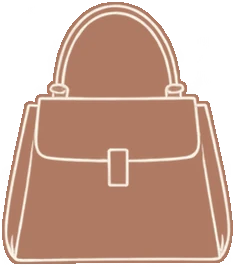
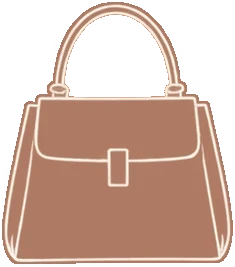
Journal : pastilles retirées ; Mon profil : « Membre depuis » ; chargement : anse du sac, dessins homme (#238)
* Journal : pastilles de période retirées des chiffres clés (redondantes avec le menu de l'en-tête)

Claude-Session: https://claude.ai/code/session_012QL3YtmR4vGBEaKjEs57SS

* Mon profil : « Membre depuis » (mois et année d'inscription) sous l'e-mail

Claude-Session: https://claude.ai/code/session_012QL3YtmR4vGBEaKjEs57SS

* Chargement : l'intérieur de l'anse du sac est transparent (il était rempli de la couleur du sac)

Claude-Session: https://claude.ai/code/session_012QL3YtmR4vGBEaKjEs57SS

* Chargement : dessins homme (besace, pardessus, blazer droit, short chino) et sac à dos selon le sac

Claude-Session: https://claude.ai/code/session_012QL3YtmR4vGBEaKjEs57SS

* Chargement : dessins homme remplacés par ceux de la planche ChatGPT, découpés (fond et halo retirés, couleurs de la planche existante)

Claude-Session: https://claude.ai/code/session_012QL3YtmR4vGBEaKjEs57SS

* Chargement homme : t-shirt, pantalon et tennis du même jeu, découpes en pleine résolution, tennis vues de dessus à 55 %

Claude-Session: https://claude.ai/code/session_012QL3YtmR4vGBEaKjEs57SS

---------

Changed region(s): [[0.2681, 0.03, 0.7149, 0.3895]]

diff --git a/src/lib/silhouetteFlatLay.ts b/src/lib/silhouetteFlatLay.ts
@@ -1,5 +1,5 @@
 import { composerFlatLay, type PlacementFlatLay } from "./flatLay";
-import type { CategoryKey } from "./types";
+import type { CategoryKey, SacType } from "./types";
 
 /*
  * LA SILHOUETTE DE CHARGEMENT, SUR LE MOTEUR DU FLAT LAY (08/10/2026, signalé : « il faut revoir les dimensions des pièces au
@@ -25,6 +25,44 @@ export const DESSINS_SILHOUETTE: Partial<Record<CategoryKey, { src: string; rati
   sac: { src: "/loader/sac.webp", ratio: 0.88 },
 };
 
+/**
+ * LES DESSINS HOMME (15/10/2026, signalé : « les silhouettes des pièces pour homme sont-elles adaptées ? »). Le sac à main, le trench
+ * ceinturé, le blazer cintré et le short taille haute sont de coupe féminine ; un profil homme reçoit une besace, un pardessus droit,
+ * un blazer droit et un short chino (dessins générés par ChatGPT sur une planche, découpés un à un : fond et halo retirés, couleurs
+ * ramenées à l'aplat et au trait crème des dessins existants).
+ * Le même jour, le haut, le pantalon et les chaussures (tennis) du même jeu, pour que la silhouette homme soit homogène (demandé :
+ * « seulement pour les hommes ») ; un profil femme garde tous les dessins d'origine. Formats mesurés sur les fichiers.
+ */
+const DESSINS_HOMME: Partial<Record<CategoryKey, { src: string; ratio: number; echelle?: number }>> = {
+  haut: { src: "/loader/haut-homme.webp", ratio: 1.06 },
+  pull: { src: "/loader/haut-homme.webp", ratio: 1.06 },
+  pantalon: { src: "/loader/pantalon-homme.webp", ratio: 0.53 },
+  jean: { src: "/loader/pantalon-homme.webp", ratio: 0.53 },
+  // Une paire de tennis VUE DE DESSUS (format vertical), là où le mocassin est vu de profil : à l'échelle du moteur, elle prenait la
+  // taille d'un sac et mordait sur le pantalon. Ramenée à 55 %, elle garde la place des chaussures sous le bas.
+  chaussures: { src: "/loader/chaussures-homme.webp", ratio: 0.8, echelle: 0.55 },
+  sac: { src: "/loader/sac-homme.webp", ratio: 1.07 },
+  veste: { src: "/loader/veste-homme.webp", ratio: 0.97 },
+  manteau: { src: "/loader/manteau-homme.webp", ratio: 0.75 },
+  short: { src: "/loader/short-homme.webp", ratio: 1.2 },
+};
+
+/** Un sac à dos est dessiné comme tel, quel que soit le profil : ni sac à main ni besace. */
+const DESSIN_SAC_A_DOS = { src: "/loader/sac-a-dos.webp", ratio: 0.86 };
+
+export interface OptionsDessin {
+  /** Profil homme : les dessins de DESSINS_HOMME remplacent les dessins communs. */
+  homme?: boolean;
+  /** Le type du sac posé, quand la pièce est connue. */
+  sacType?: SacType;
+}
+
+/** Le dessin d'une catégorie pour ce profil (et ce sac), ou undefined si la catégorie n'en a pas. */
+export function dessinSilhouette(cat: CategoryKey, options: OptionsDessin = {}): { src: string; ratio: number; echelle?: number } | undefined {
+  if (cat === "sac" && options.sacType === "Sac à dos") return DESSIN_SAC_A_DOS;
+  return (options.homme ? DESSINS_HOMME[cat] : undefined) ?? DESSINS_SILHOUETTE[cat];
+}
+
 /** L'échelle du dessin du haut (cf. composerSilhouette). */
 const ECHELLE_HAUT = 0.78;
 
@@ -33,6 +71,7 @@ const RATIO_PHOTO = 0.8;
 
 export interface FormeSilhouette {
   cat: CategoryKey;
+  dessin: { src: string; ratio: number; echelle?: number };
   /** Le haut photographié : un cadre de photo au format 4:5 au lieu du dessin. */
   photo: boolean;
 }
@@ -43,16 +82,23 @@ export interface PlacementSilhouette extends PlacementFlatLay {
 }
 
 /** Les emplacements des dessins pour ces catégories : ceux du flat lay de l'accueil. Bijoux et accessoires n'ont pas de dessin. */
-export function composerSilhouette(formes: { cat: CategoryKey; photoUrl?: string | null }[]): PlacementSilhouette[] {
-  const utiles: FormeSilhouette[] = formes.filter((f) => f.cat !== "bijou" && f.cat !== "accessoire" && DESSINS_SILHOUETTE[f.cat]).map((f) => ({ cat: f.cat, photo: Boolean(f.photoUrl) }));
+export function composerSilhouette(
+  formes: { cat: CategoryKey; photoUrl?: string | null; sacType?: SacType }[],
+  options: { homme?: boolean } = {}
+): PlacementSilhouette[] {
+  const utiles: FormeSilhouette[] = formes.flatMap((f) => {
+    if (f.cat === "bijou" || f.cat === "accessoire") return [];
+    const dessin = dessinSilhouette(f.cat, { homme: options.homme, sacType: f.sacType });
+    return dessin ? [{ cat: f.cat, dessin, photo: Boolean(f.photoUrl) }] : [];
+  });
   if (!utiles.length) return [];
   const { pieces } = composerFlatLay(
     // Le dessin du haut est un carré plein (format 1:1), celui du pantalon un trait étroit (0,36) : à échelle égale, le haut prenait
     // plus de place que le bas. Le haut est ramené à 78 % — sa surface reste sous celle du pantalon, comme dans le look final.
-    utiles.map((f, id) => ({ id, cat: f.cat, ratio: f.photo ? RATIO_PHOTO : DESSINS_SILHOUETTE[f.cat]!.ratio, visualScale: f.cat === "haut" || f.cat === "pull" ? ECHELLE_HAUT : 1 })),
+    utiles.map((f, id) => ({ id, cat: f.cat, ratio: f.photo ? RATIO_PHOTO : f.dessin.ratio, visualScale: f.dessin.echelle ?? (f.cat === "haut" || f.cat === "pull" ? ECHELLE_HAUT : 1) })),
     // Une graine fixe par ensemble de catégories : la silhouette ne bouge pas d'un rendu à l'autre.
     `silhouette:${utiles.map((f) => f.cat).join(",")}`,
     { contexte: "hero-home", sansMiroir: true }
   );
-  return pieces.map((p) => ({ ...p, photo: utiles[p.id].photo, src: DESSINS_SILHOUETTE[utiles[p.id].cat]!.src }));
+  return pieces.map((p) => ({ ...p, photo: utiles[p.id].photo, src: utiles[p.id].dessin.src }));
 }

diff --git a/src/lib/__tests__/silhouetteFlatLay.test.ts b/src/lib/__tests__/silhouetteFlatLay.test.ts
@@ -1,6 +1,6 @@
 import { describe, expect, it } from "vitest";
 import { CONTEXTES } from "../flatLay";
-import { DESSINS_SILHOUETTE, composerSilhouette } from "../silhouetteFlatLay";
+import { DESSINS_SILHOUETTE, composerSilhouette, dessinSilhouette } from "../silhouetteFlatLay";
 import type { CategoryKey } from "../types";
 
 // La silhouette de chargement pose ses dessins avec le moteur du flat lay : signalé le 08/10/2026 (« haut trop grand vs bas »).
@@ -52,5 +52,35 @@ describe("silhouette de chargement — mêmes tailles relatives que le look fina
 
   it("déterministe : le même ensemble de catégories donne la même silhouette", () => {
     expect(composerSilhouette(BASE.map((cat) => ({ cat })))).toEqual(composerSilhouette(BASE.map((cat) => ({ cat }))));
+  });
+});
+
+describe("dessins selon le profil (15/10/2026)", () => {
+  it("un profil homme reçoit tout le jeu homme : t-shirt, pantalon, tennis, besace, pardessus, blazer droit, short chino", () => {
+    expect(dessinSilhouette("sac", { homme: true })?.src).toBe("/loader/sac-homme.webp");
+    expect(dessinSilhouette("manteau", { homme: true })?.src).toBe("/loader/manteau-homme.webp");
+    expect(dessinSilhouette("veste", { homme: true })?.src).toBe("/loader/veste-homme.webp");
+    expect(dessinSilhouette("short", { homme: true })?.src).toBe("/loader/short-homme.webp");
+    expect(dessinSilhouette("haut", { homme: true })?.src).toBe("/loader/haut-homme.webp");
+    expect(dessinSilhouette("pull", { homme: true })?.src).toBe("/loader/haut-homme.webp");
+    expect(dessinSilhouette("pantalon", { homme: true })?.src).toBe("/loader/pantalon-homme.webp");
+    expect(dessinSilhouette("jean", { homme: true })?.src).toBe("/loader/pantalon-homme.webp");
+    expect(dessinSilhouette("chaussures", { homme: true })?.src).toBe("/loader/chaussures-homme.webp");
+  });
+
+  it("sans profil homme, les dessins communs ne changent pas", () => {
+    for (const cat of ["haut", "pull", "pantalon", "jean", "chaussures", "sac", "manteau", "veste", "short"] as const) expect(dessinSilhouette(cat)).toBe(DESSINS_SILHOUETTE[cat]);
+  });
+
+  it("un sac à dos est dessiné comme tel, quel que soit le profil", () => {
+    expect(dessinSilhouette("sac", { sacType: "Sac à dos" })?.src).toBe("/loader/sac-a-dos.webp");
+    expect(dessinSilhouette("sac", { homme: true, sacType: "Sac à dos" })?.src).toBe("/loader/sac-a-dos.webp");
+  });
+
+  it("la composition pose les dessins homme avec leur propre format", () => {
+    const pieces = composerSilhouette([{ cat: "haut" }, { cat: "pantalon" }, { cat: "chaussures" }, { cat: "sac" }], { homme: true });
+    const sac = pieces.find((p) => p.cat === "sac")!;
+    expect(sac.src).toBe("/loader/sac-homme.webp");
+    expect(sac.l / sac.h).toBeCloseTo(dessinSilhouette("sac", { homme: true })!.ratio, 1);
   });
 });

diff --git a/src/lib/auth.tsx b/src/lib/auth.tsx
@@ -16,6 +16,8 @@ export { markSignupIntent } from "./signupIntent";
 interface DemoAuth {
   email: string;
   profile: Profile;
+  /** Création du compte démo sur l'appareil (ISO, 15/10/2026) — absente des comptes démo plus anciens. */
+  creeLe?: string;
 }
 
 export interface AuthContextValue {
@@ -41,6 +43,8 @@ export interface AuthContextValue {
   /** Mode démo : pas de credentials Supabase configurés. */
   demoMode: boolean;
   email: string | null;
+  /** Date d'inscription (ISO) : `created_at` du compte, ou création du compte démo. null si elle n'est pas connue. */
+  inscritLe: string | null;
   /** Id Supabase Auth réel — null en mode démo (pas d'utilisateur Supabase) ou tant qu'aucune session n'est chargée. */
   userId: string | null;
   profile: Profile;
@@ -249,7 +253,7 @@ export function AuthProvider({ children }: { children: React.ReactNode }) {
     setError(null);
     const fresh = { ...EMPTY_PROFILE, displayName: name, birthdate: birthdate || null };
     if (!isSupabaseConfigured) {
-      persistDemo({ email, profile: fresh });
+      persistDemo({ email, profile: fresh, creeLe: new Date().toISOString() });
       setProfile(fresh);
       return "ok";
     }
@@ -270,7 +274,7 @@ export function AuthProvider({ children }: { children: React.ReactNode }) {
     setError(null);
     if (!isSupabaseConfigured) {
       const stored = readStoredDemo();
-      const restored: DemoAuth = stored && stored.email === email ? stored : { email, profile: EMPTY_PROFILE };
+      const restored: DemoAuth = stored && stored.email === email ? stored : { email, profile: EMPTY_PROFILE, creeLe: new Date().toISOString() };
       persistDemo(restored);
       setProfile(restored.profile);
       return true;
@@ -288,7 +292,7 @@ export function AuthProvider({ children }: { children: React.ReactNode }) {
     if (!isSupabaseConfigured) {
       const email = "demo@capsela.app";
       const stored = readStoredDemo();
-      const restored: DemoAuth = stored && stored.email === email ? stored : { email, profile: EMPTY_PROFILE };
+      const restored: DemoAuth = stored && stored.email === email ? stored : { email, profile: EMPTY_PROFILE, creeLe: new Date().toISOString() };
       persistDemo(restored);
       setProfile(restored.profile);
       setJustSignedUp(consumeSignupIntent());
@@ -421,6 +425,7 @@ export function AuthProvider({ children }: { children: React.ReactNode }) {
     profileLoaded: !isSupabaseConfigured || profilChargeReel,
     demoMode: !isSupabaseConfigured,
     email: user?.email ?? demoUser?.email ?? null,
+    inscritLe: user?.created_at ?? demoUser?.creeLe ?? null,
     userId: user?.id ?? null,
     profile,
     error,

diff --git a/src/components/FlatLayCapsela.tsx b/src/components/FlatLayCapsela.tsx
@@ -1,7 +1,8 @@
 "use client";
 
 import { useCallback, useEffect, useLayoutEffect, useMemo, useRef, useState } from "react";
-import { DESSINS_SILHOUETTE } from "@/lib/silhouetteFlatLay";
+import { dessinSilhouette } from "@/lib/silhouetteFlatLay";
+import { useAuth } from "@/lib/auth";
 import { margesDe, objectBounds, ratioHero } from "@/lib/catalogMarges";
 import { resolveHeroImage } from "@/lib/catalogImages";
 import { composerFlatLay, hauteurDuContexte, type ContexteFlatLay } from "@/lib/flatLay";
@@ -103,6 +104,7 @@ export function FlatLayCapsela({
     ro.observe(el);
     return () => ro.disconnect();
   }, []);
+  const homme = useAuth().profile.gender === "homme";
   const HAUTEUR = formatCadre ?? hauteurDuContexte(context);
   const graine = layoutSeed;
   const images = useMemo(() => {
@@ -119,7 +121,8 @@ export function FlatLayCapsela({
     const avecImage = toutes.filter(({ img }) => img.url);
     const base = avecImage.length ? avecImage : toutes;
     const ombres = fantomes.flatMap((cat, i) => {
-      const dessin = DESSINS_SILHOUETTE[cat];
+      // Une pièce manquante posée en silhouette prend le dessin du profil (15/10/2026) : la veste d'un homme est un blazer droit.
+      const dessin = dessinSilhouette(cat, { homme });
       if (!dessin) return [];
       const it = { id: -(i + 1), cat, name: "Pièce à ajouter", hex: "#d9cbb6" } as unknown as Item;
       return [{ it, img: { kind: "generated" as const, url: dessin.src }, fantome: dessin.ratio }];
@@ -130,7 +133,7 @@ export function FlatLayCapsela({
       // Comme les pièces de la tenue : sans visuel, la pièce n'est posée que si AUCUNE pièce n'en a (pastilles du mode démo).
       .filter(({ img }) => img.url || avecImage.length === 0);
     return [...base.map((e) => ({ ...e, fantome: undefined as number | undefined, ajout: undefined as (() => void) | undefined })), ...ombres.map((o) => ({ ...o, ajout: undefined as (() => void) | undefined })), ...conseils];
-  }, [items, context, fantomes, ajouts]);
+  }, [items, context, fantomes, ajouts, homme]);
   const template = useMemo(
     // Pas de template sur l'accueil (14/10/2026) : jamais validé en rendu réel dans ce contexte (seul look-detail l'a été), et une tenue y a
     // paru sans ses chaussures. Le moteur d'origine y compose seul ; le moteur de templates sait le faire (flatLay.ts), il faut juste le valider.

diff --git a/src/components/screens/HistoryScreen.tsx b/src/components/screens/HistoryScreen.tsx
@@ -844,9 +844,9 @@ export default function HistoryScreen() {
       <AppHeader />
 
       {/* EN-TÊTE */}
-      {/* EN-TÊTE (15/10/2026, maquette du Journal) : le titre à gauche, la période en menu à droite (« Octobre 2026 »). Le menu et les
-          pastilles de « Tes chiffres clés » pilotent la MÊME période : ils ne peuvent pas se contredire. Un <select> natif : la liste
-          s'ouvre à la manière du système, au clavier et au lecteur d'écran aussi. */}
+      {/* EN-TÊTE (15/10/2026, maquette du Journal) : le titre à gauche, la période en menu à droite (« Octobre 2026 »). Ce menu est le
+          SEUL sélecteur de période du titre, du bilan et des chiffres clés. Un <select> natif : la liste s'ouvre à la manière du
+          système, au clavier et au lecteur d'écran aussi. */}
       <Surtitre className="mt-[18px]">Ton journal</Surtitre>
       <div className="flex items-start justify-between gap-3 mt-[6px]">
         <div className="t-titre-ecran text-ink min-w-0" aria-live="polite">
@@ -1007,21 +1007,7 @@ export default function HistoryScreen() {
         <Surtitre>
           <span id="journal-chiffres">Tes chiffres clés</span>
         </Surtitre>
-        {/* Les trois périodes en pastilles de même largeur (15/10/2026, maquette) : la même période que le menu de l'en-tête. */}
-        <div role="group" aria-label="Période des chiffres clés" className="grid grid-cols-3 gap-2 mt-3">
-          {PERIODES.map(({ key, label }) => (
-            <button
-              key={key}
-              aria-pressed={periode === key}
-              onClick={() => setPeriode(key)}
-              className={`min-h-[40px] px-2 rounded-full text-[12px] leading-[1.2] cursor-pointer border ${
-                periode === key ? "bg-ink text-cream border-ink" : "bg-card text-ink border-border"
-              }`}
-            >
-              {label}
-            </button>
-          ))}
-        </div>
+        {/* Plus de pastilles de période ici (15/10/2026, demandé : redondant avec le menu de l'en-tête, qui pilote seul la période). */}
         <Card className="mt-3 px-3 pt-4 pb-3" aria-live="polite">
           <div className="flex items-stretch">
             {chiffres.totalDressing > 0 && (

diff --git a/src/components/ZoneLookDuJour.tsx b/src/components/ZoneLookDuJour.tsx
@@ -4,6 +4,7 @@ import { useCallback, useEffect, useState } from "react";
 import { FlatLayCapsela } from "@/components/FlatLayCapsela";
 import { hauteurDuContexte } from "@/lib/flatLay";
 import { composerSilhouette } from "@/lib/silhouetteFlatLay";
+import { useAuth } from "@/lib/auth";
 import type { CategoryKey, Item } from "@/lib/types";
 
 /** Au-delà, la planche apparaît même si une image tarde : la silhouette ne doit pas masquer un look prêt. */
@@ -104,9 +105,11 @@ export function StatutComposition() {
  * relatives et aux places du look final. Même cadre que FlatLayCapsela (zone de 100 × 112 unités, centrée) : le fondu de l'un à l'autre
  * ne déplace rien.
  */
-function SilhouetteFlatLay({ formes }: { formes: { cat: CategoryKey; photoUrl?: string | null }[] }) {
+function SilhouetteFlatLay({ formes }: { formes: { cat: CategoryKey; photoUrl?: string | null; sacType?: Item["sacType"] }[] }) {
   const hauteur = hauteurDuContexte("hero-home");
-  const pieces = composerSilhouette(formes);
+  // Les dessins homme pour un profil homme (15/10/2026) : pas de sac à main ni de trench ceinturé au chargement.
+  const { profile } = useAuth();
+  const pieces = composerSilhouette(formes, { homme: profile.gender === "homme" });
   if (!pieces.length) return null;
   return (
     <div aria-hidden="true" className="absolute inset-0 w-full h-full flex items-center justify-center" style={{ containerType: "size", isolation: "isolate" }}>

diff --git a/src/components/screens/ProfileScreen.tsx b/src/components/screens/ProfileScreen.tsx
@@ -21,6 +21,7 @@ import {
   RevalidationSheet,
   Surtitre,
 } from "@/components/ProfilUI";
+import { libelleMembreDepuis } from "@/lib/membreDepuis";
 import { useAuth } from "@/lib/auth";
 import { morphologieOrienteLaSelection } from "@/lib/capsule";
 import {
@@ -66,7 +67,8 @@ import Card from "@/components/Card";
  */
 
 export default function ProfileScreen() {
-  const { profile, email, demoMode, saveProfile, profileLoaded } = useAuth();
+  const { profile, email, inscritLe, demoMode, saveProfile, profileLoaded } = useAuth();
+  const membreDepuis = libelleMembreDepuis(inscritLe);
   const { state, actions, etatPremium } = useCapsela();
   const [genreOuvert, setGenreOuvert] = useState(false);
   const [aRevalider, setARevalider] = useState<GenderDependentField | null>(null);
@@ -128,6 +130,8 @@ export default function ProfileScreen() {
             {profile.displayName || "Ton nom"}
           </div>
           <div className="text-[12px] text-muted-3 mt-[2px] [overflow-wrap:anywhere]">{email ?? "E-mail non renseigné"}</div>
+          {/* Ligne secondaire sous l'e-mail (15/10/2026, demandé). Sans date d'inscription connue, rien. */}
+          {membreDepuis && <div className="text-[12px] text-muted mt-[1px]">{membreDepuis}</div>}
           {demoMode && <div className="text-[12px] text-muted mt-[1px]">Mode démo — les données restent sur cet appareil</div>}
           <button
             onClick={actions.goAccount}

diff --git a/src/lib/__tests__/membreDepuis.test.ts b/src/lib/__tests__/membreDepuis.test.ts
@@ -1,0 +1,16 @@
+import { describe, expect, it } from "vitest";
+import { libelleMembreDepuis } from "../membreDepuis";
+
+describe("libelleMembreDepuis", () => {
+  it("dit le mois et l'année d'inscription", () => {
+    expect(libelleMembreDepuis("2026-10-15T12:00:00Z")).toBe("Membre depuis octobre 2026");
+    expect(libelleMembreDepuis("2025-08-10T12:00:00.000000+00:00")).toBe("Membre depuis août 2025");
+  });
+
+  it("ne dit rien sans date lisible", () => {
+    expect(libelleMembreDepuis(null)).toBeNull();
+    expect(libelleMembreDepuis(undefined)).toBeNull();
+    expect(libelleMembreDepuis("")).toBeNull();
+    expect(libelleMembreDepuis("pas une date")).toBeNull();
+  });
+});

diff --git a/src/lib/membreDepuis.ts b/src/lib/membreDepuis.ts
@@ -1,0 +1,13 @@
+import { MONTHS_FR } from "./data";
+
+/**
+ * « Membre depuis octobre 2026 » (15/10/2026, demandé : sous l'e-mail de Mon profil). La date est celle de l'inscription :
+ * `created_at` du compte Supabase, ou la création du compte démo sur l'appareil. Sans date lisible, null : la ligne ne
+ * s'affiche pas plutôt que d'afficher une date inventée. Mois et année lus dans le fuseau de l'appareil.
+ */
+export function libelleMembreDepuis(iso: string | null | undefined): string | null {
+  if (!iso) return null;
+  const d = new Date(iso);
+  if (Number.isNaN(d.getTime())) return null;
+  return `Membre depuis ${MONTHS_FR[d.getMonth()]} ${d.getFullYear()}`;
+}

diff --git a/docs/journal.md b/docs/journal.md
@@ -42,8 +42,8 @@ Rappel : les bornes de période suivent le fuseau de l'appareil (`new Date(an, m
 
 ## 15/10/2026 — rapprochement de la maquette
 
-- **En-tête** : la période passe dans un menu à droite du titre (« Octobre 2026 », « 3 derniers mois », « Depuis le début »). Les pastilles
-  de « Tes chiffres clés » pilotent la même période : menu et pastilles ne peuvent pas se contredire.
+- **En-tête** : la période passe dans un menu à droite du titre (« Octobre 2026 », « 3 derniers mois », « Depuis le début »). C'est le
+  seul sélecteur de période : les pastilles reprises de la maquette sous « Tes chiffres clés » ont été retirées le même jour (redondantes).
 - **Bilan** : plus de surtitre (il reste le nom de la section pour le lecteur d'écran). Hors tendance, la carte a une pastille de
   calendrier à gauche ; à égalité, son titre nomme la période (« Un mois aux occasions variées »).
 - **Chiffres clés** : l'anneau à gauche, puis tenues et pièces utilisées, chacun avec sa pastille d'icône ; la phrase qui dit les
